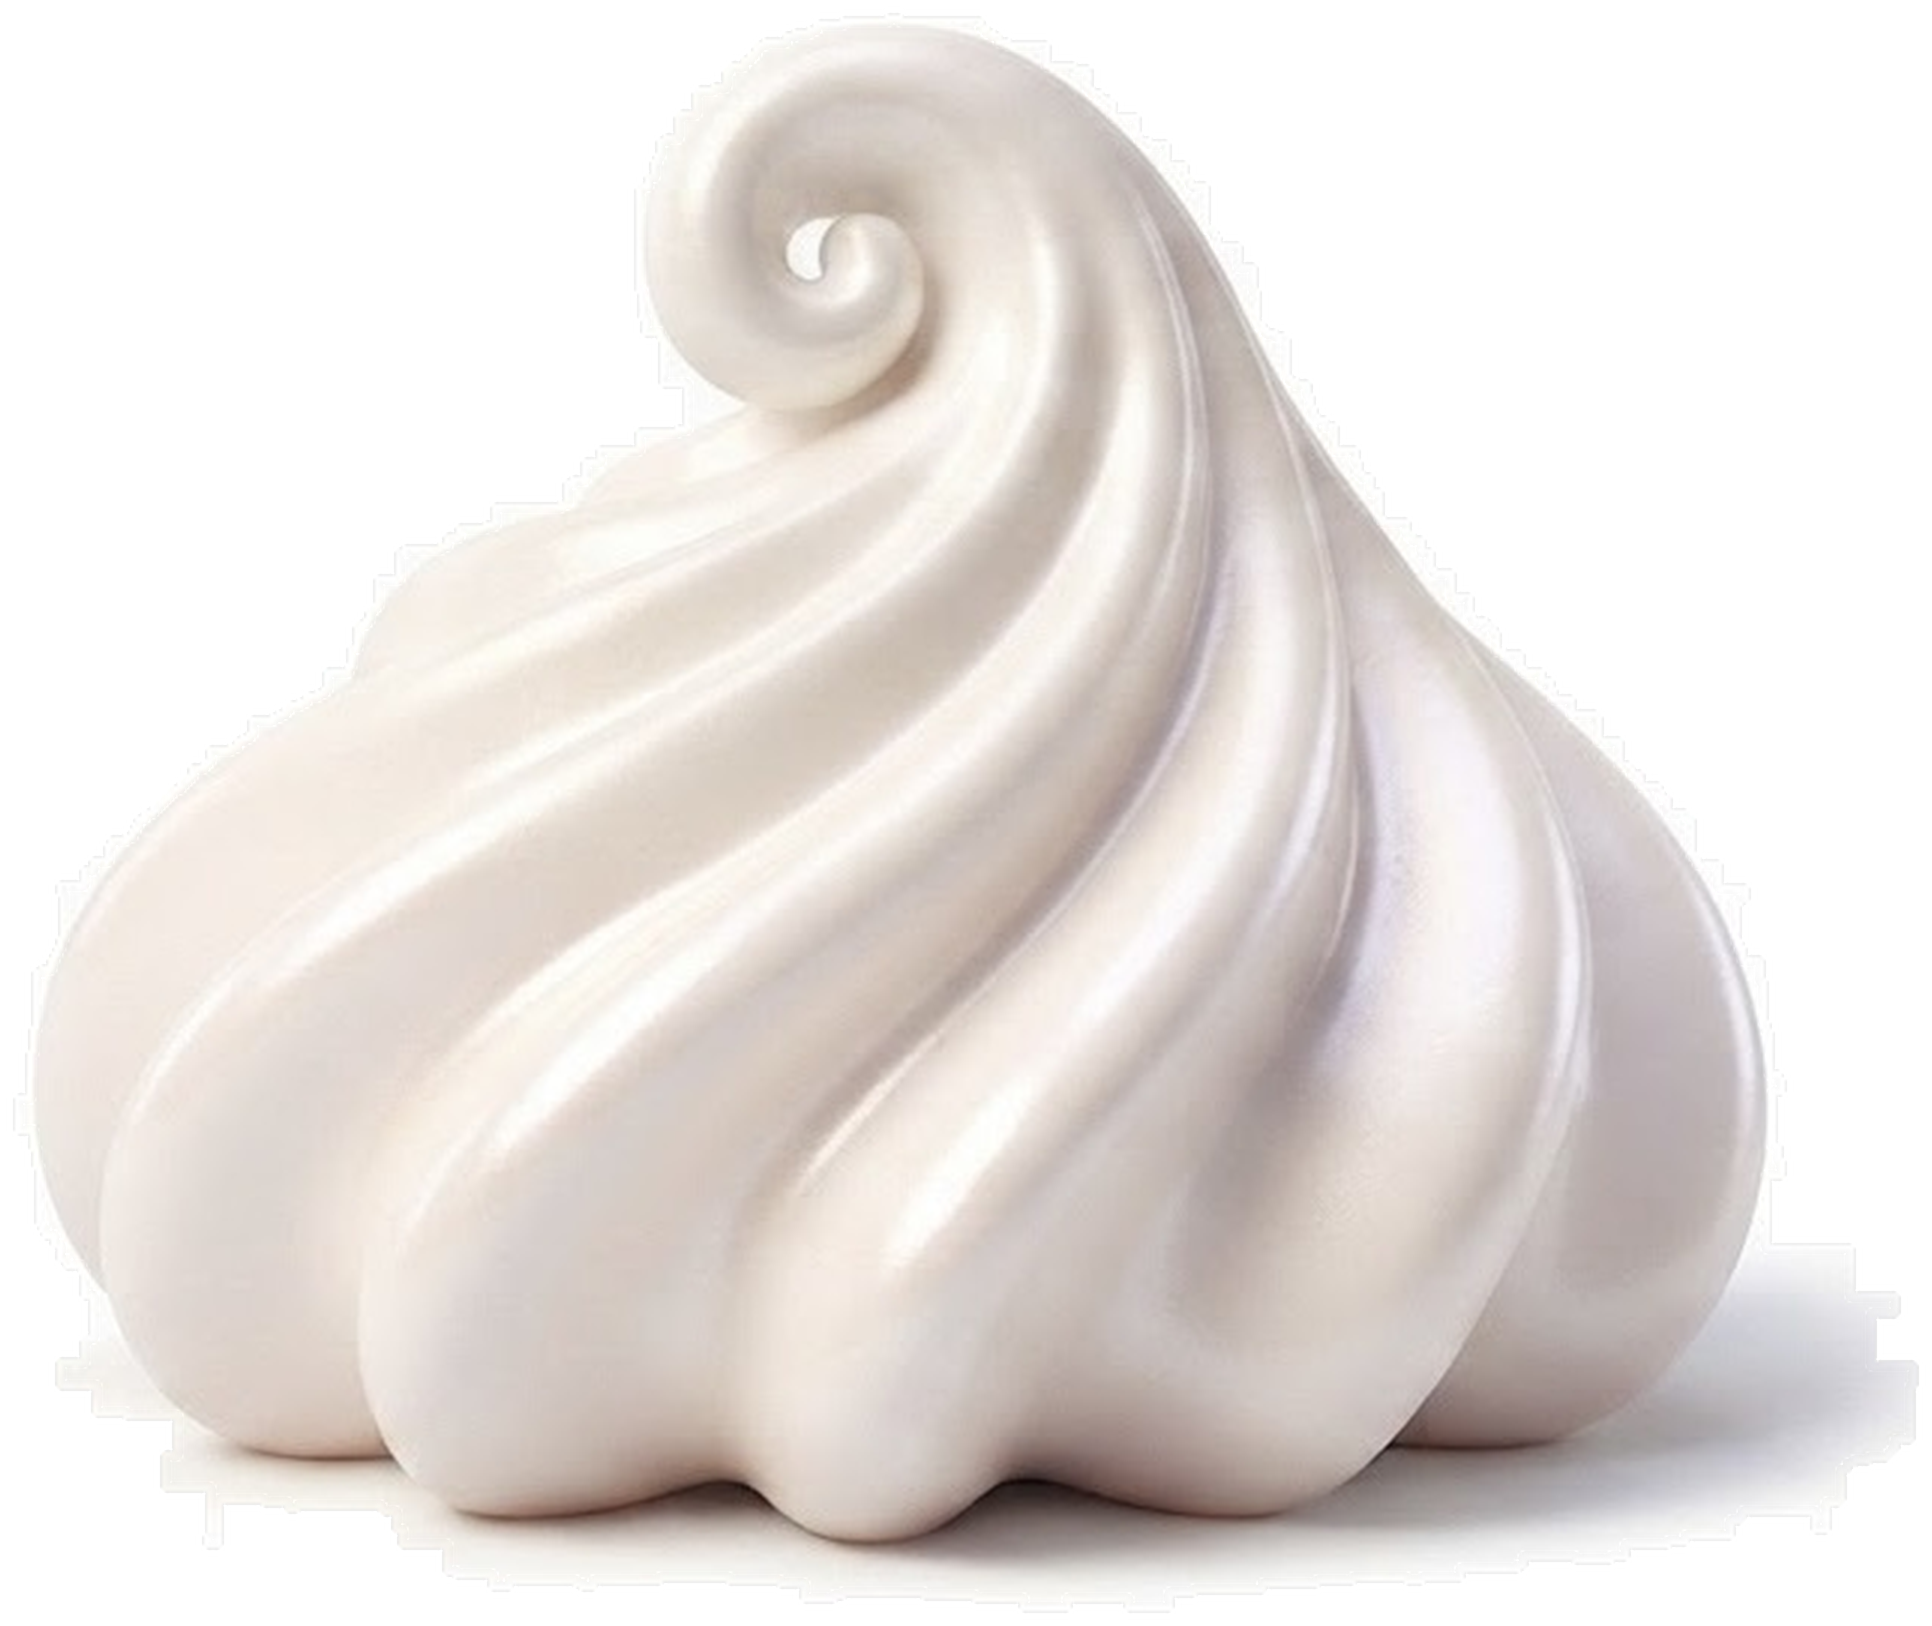
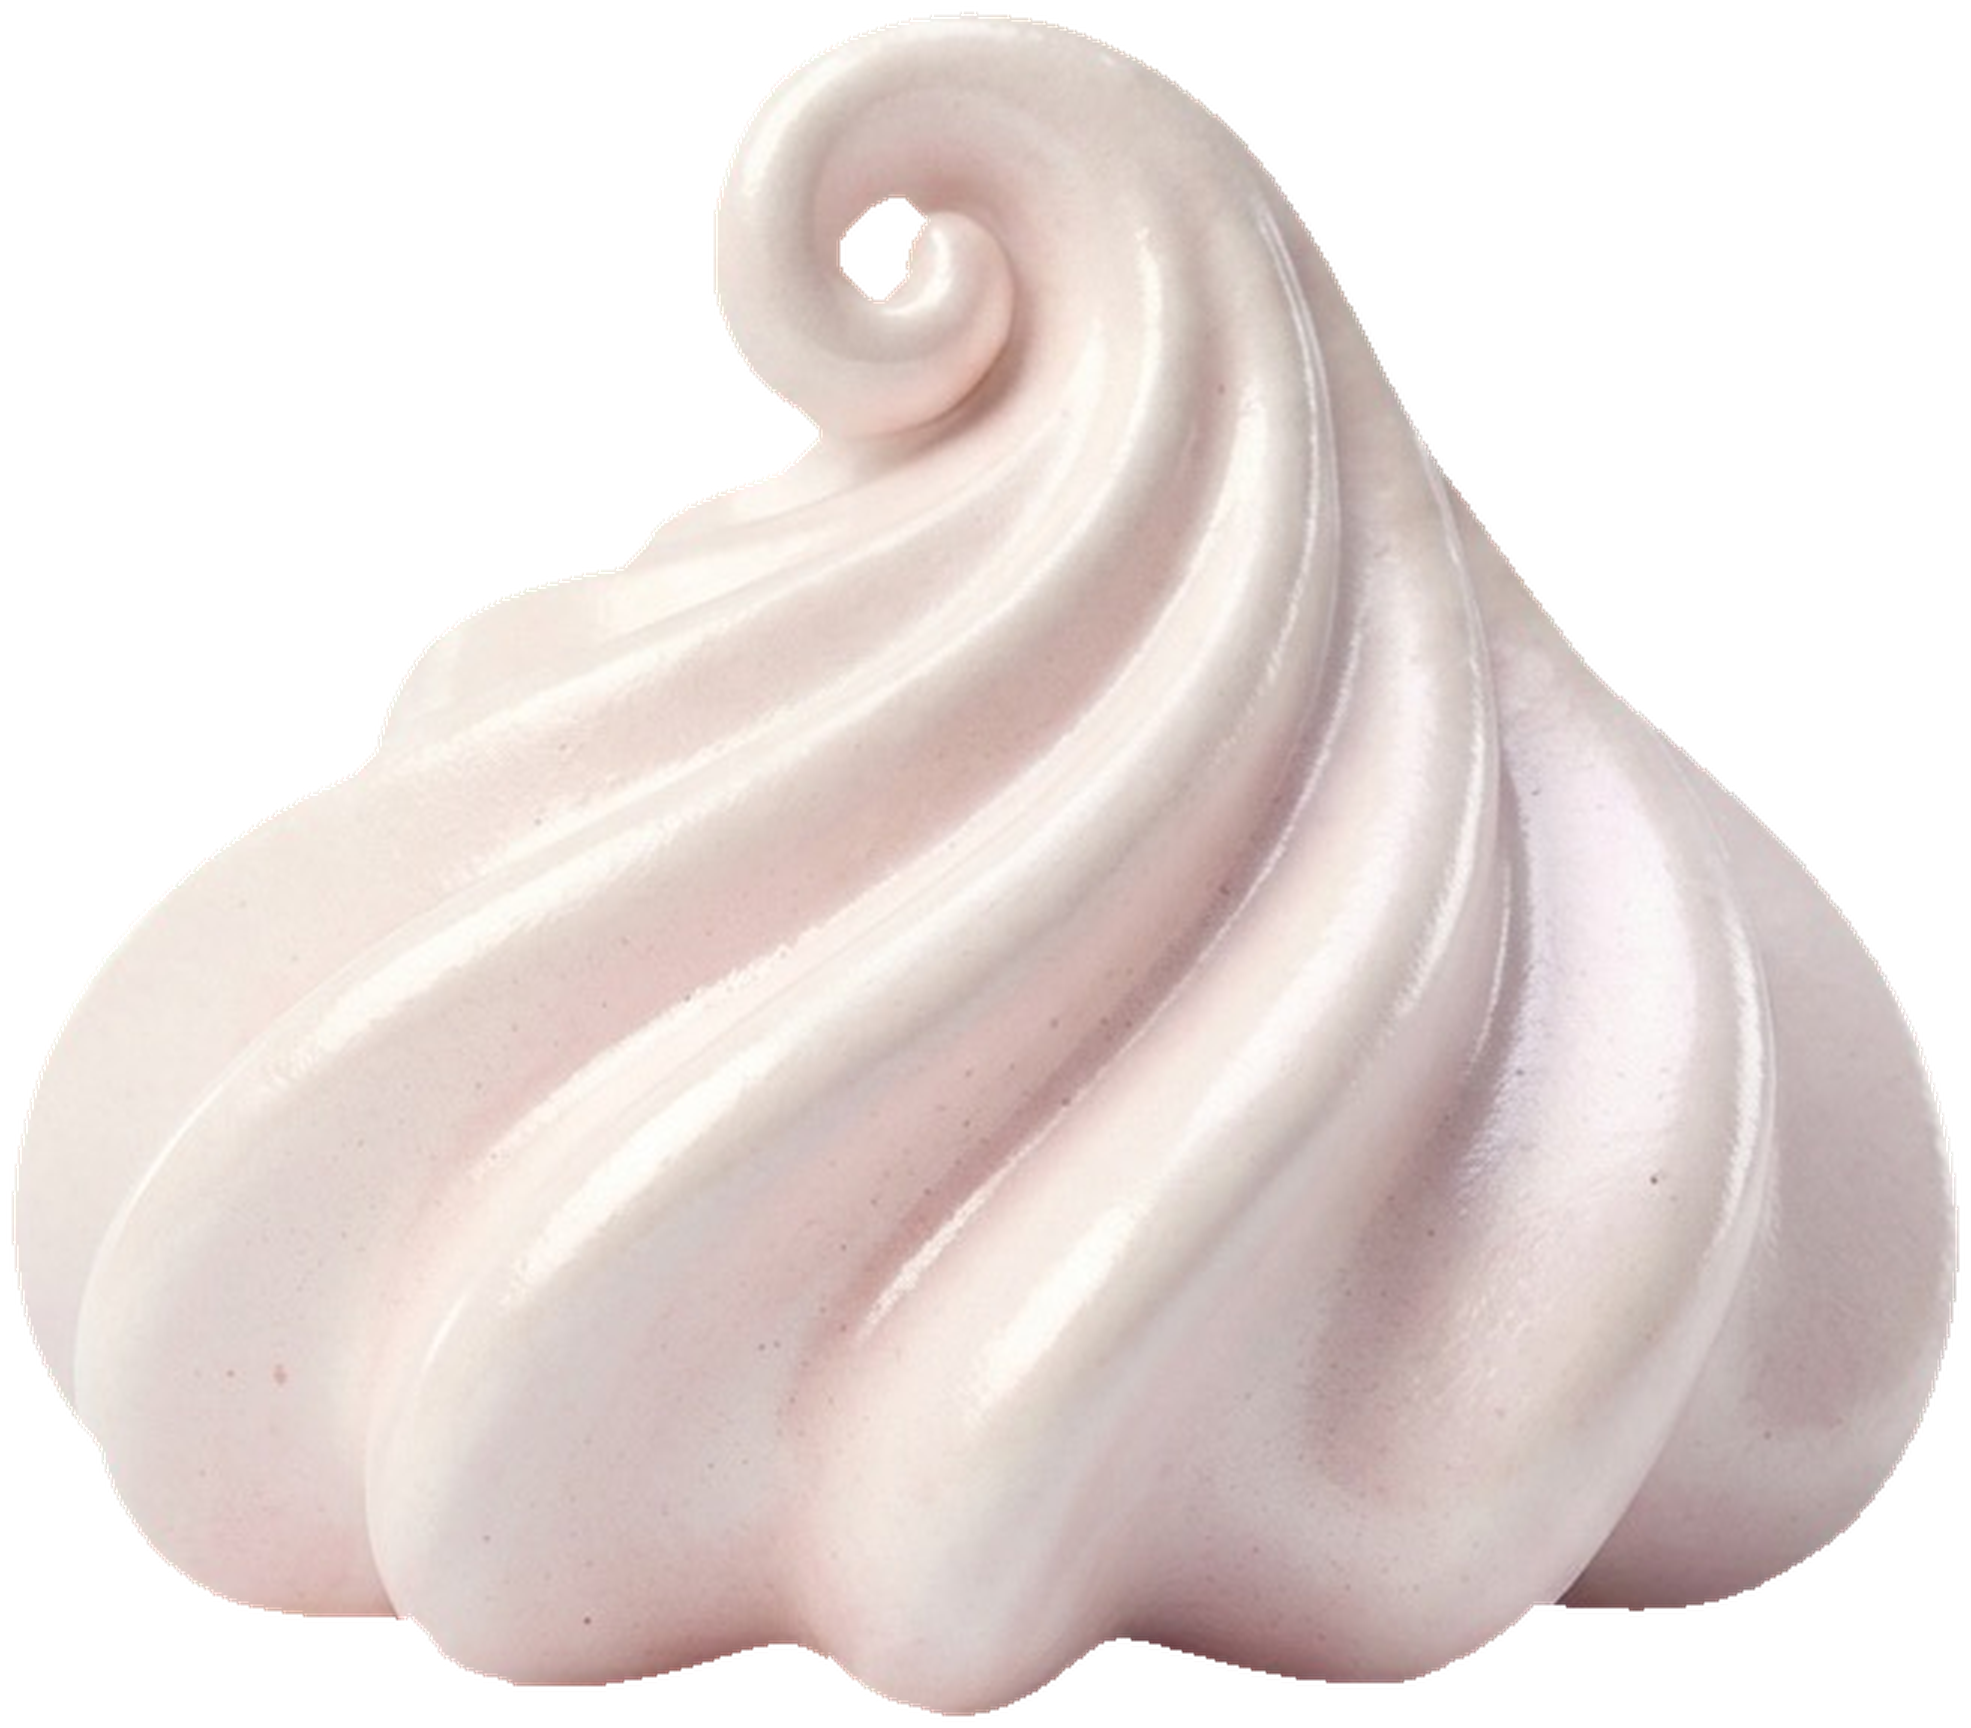
Re-extract chantilly from a new pink-background source photo
Creator supplied a new photo of the same object on a flat magenta
backdrop instead of the original white-on-white one, specifically to
make this easier -- and it does: plain color-distance thresholding
cleanly separates the pale cream from a saturated, unique background
color, with no shadow-blending ambiguity to work around at all.

One real issue still needed fixing: pixels within a few px of the true
edge carry JPEG chroma-subsampling bleed from the magenta background,
which shows as a thin magenta fringe if left in (confirmed by checking
composited over non-black backgrounds, where it doesn't hide the way it
does over pure black). Fixed by eroding a few pixels past that
contaminated band rather than trying to recover it, then a tight 1px
feather with background-color unmixing on the new clean boundary.

Claude-Session: https://claude.ai/code/session_01QJhmBXxG8bP3KG6H3AZ1rh

diff --git a/mobile/README.md b/mobile/README.md
@@ -223,7 +223,18 @@ flag it if the creator intended the opposite.
   excluding the shadow, since the shadow's own boundary is a smooth gradient
   with no comparable edge to trace. This is now a strictly better signal
   than both the plain color-distance and local-texture approaches tried in
-  earlier passes.
+  earlier passes. Pass 5: the creator then supplied a new source photo of
+  the same object on a flat magenta backdrop
+  (`images/objectif-livraison-chantilly-v2-fondrose.jpg`), which sidesteps
+  the white-on-white ambiguity entirely -- extracted via plain color-distance
+  thresholding instead, since a saturated, unique background color has a
+  clean separation from the pale cream with no shadow-blending problem to
+  work around. One real fix needed here: pixels within a few pixels of the
+  edge carry JPEG chroma-subsampling bleed from the magenta background
+  (visible as a thin magenta fringe if left in), so the mask is eroded a
+  few pixels past that contaminated band rather than trying to recover it,
+  before a tight 1px feather + background-color unmix on the new, clean
+  boundary.
 
 ## Accounts (`01-setup-projet-et-architecture.md`)
 
